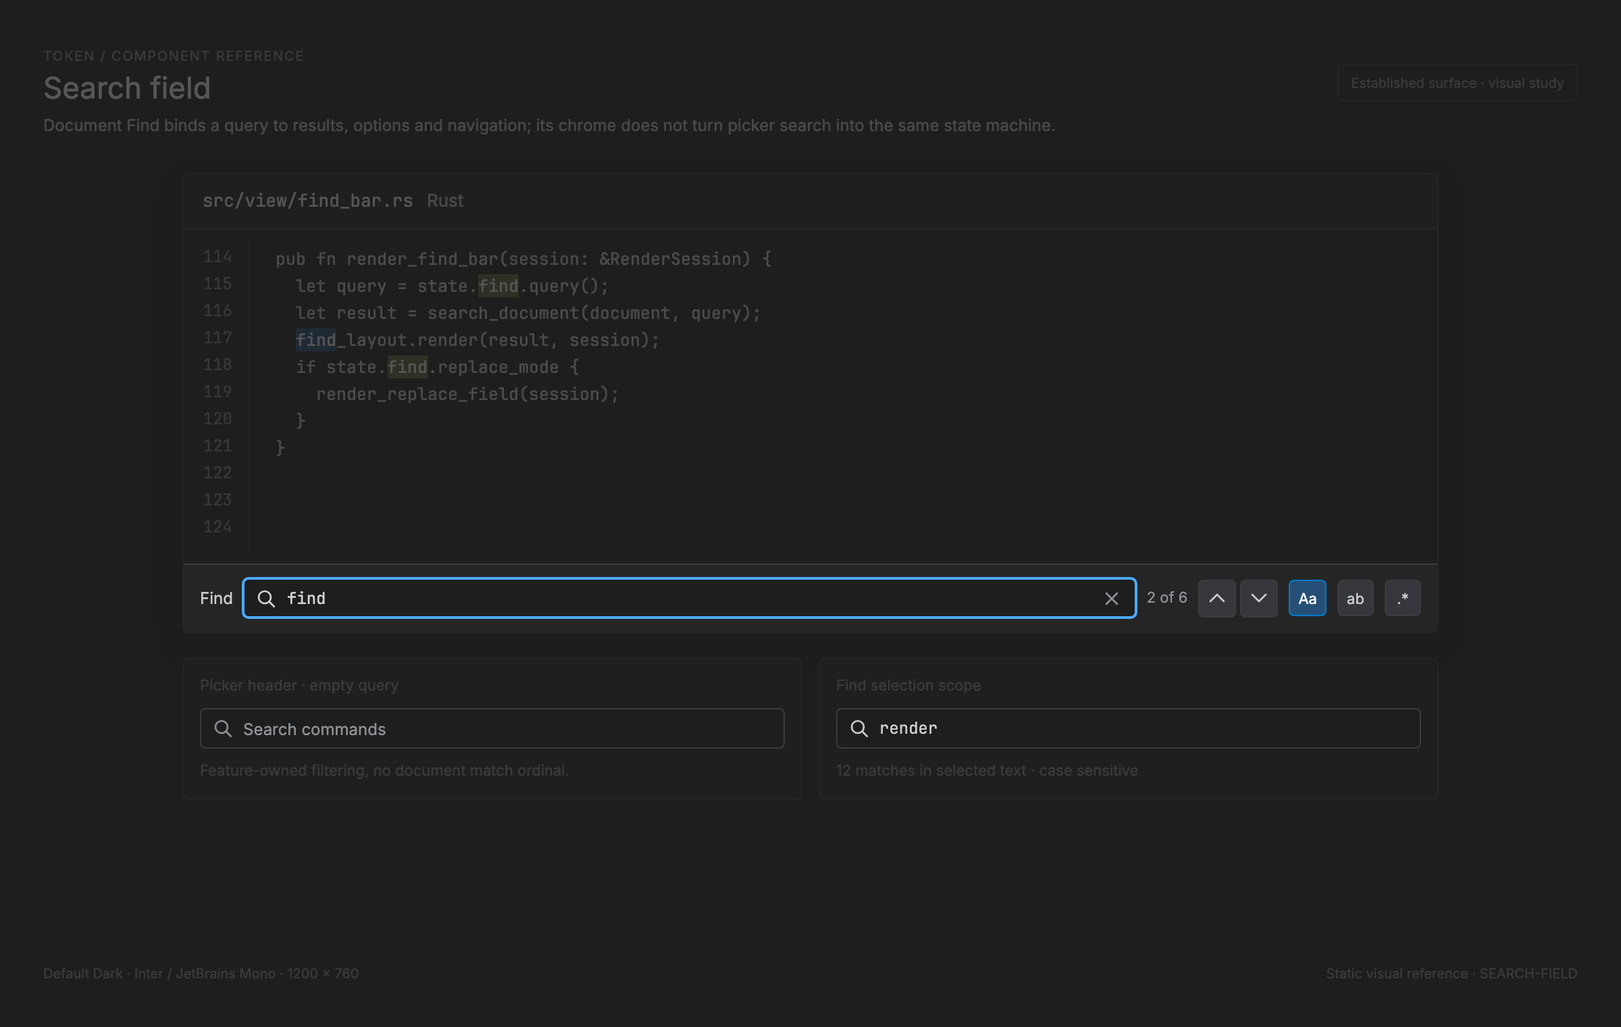
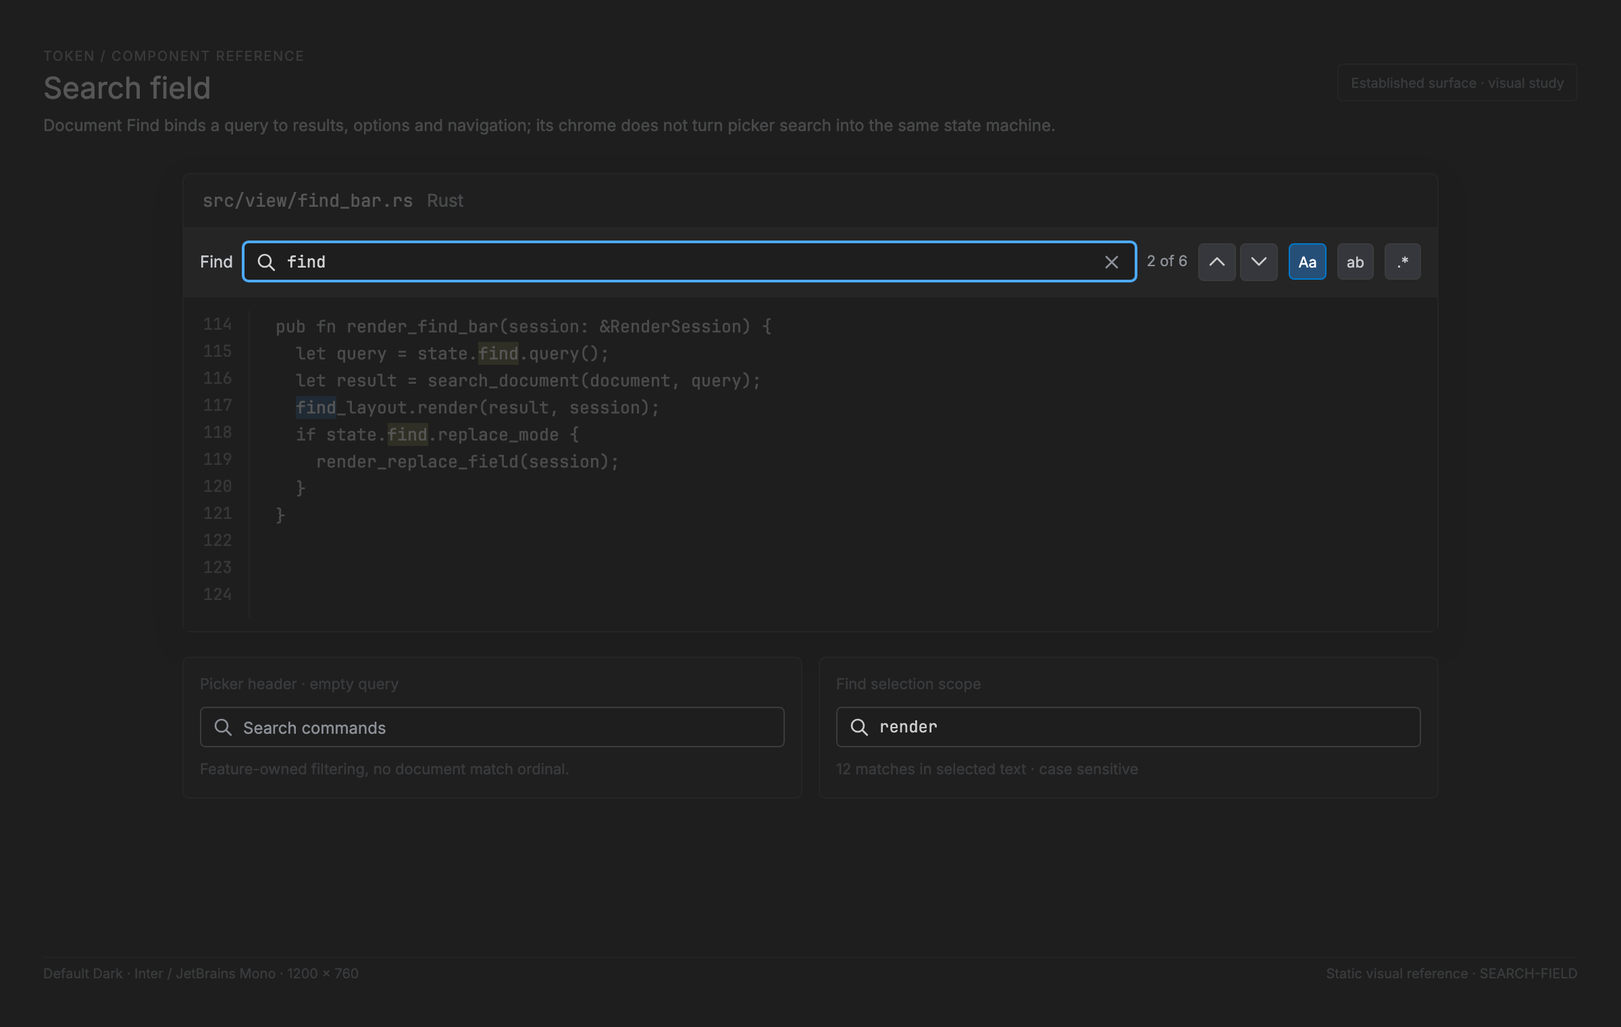
fix(docs): correct structural mismatches in polish-slice mockups
Investigated the cohesion review's open issues and a broader sweep for
mockups that misrepresent an already-implemented Token feature (not
missing states or cosmetic simplification, which are expected).

Real defects found and fixed:
- SEARCH-FIELD.html stacked the Find bar below the code sample, implying
  a bottom-docked bar. GroupLayout::from_rect (view/geometry.rs) places
  find_bar_rect directly below the tab strip, pushing content down; the
  mockup now matches, and SEARCH-FIELD.md states the placement explicitly
  so a future edit can't silently invert it again.
- PANEL.html mixed Outline (default-Right) with Problems/Terminal
  (default-Bottom) in one tab strip, and its own aria-labels contradicted
  each other ("Right dock" vs "Bottom panel tabs"). Rebuilt as a real
  bottom dock (Problems/Terminal/Usages, all Bottom-default per the doc
  and per src/panel/dock.rs::default_position).
- SCROLL-AREA.html's live thumb-size script clamped to 16px; both the
  doc's formula and src/view/scrollbar.rs::MIN_THUMB_PX are 20px.
- DOCKABLE-PANEL.html's docked-presentation card showed a bare title, not
  the tab-strip-leading/actions-trailing composition PANE-CHROME.md
  requires for a docked pane; added the missing tab strip.
- PANE-CHROME.md's worked-trace geometry (37/29 logical px) was never
  reconciled with its own mockup's rendered values (42/30 logical px);
  added a sentence explaining neither is binding yet.
[…]

diff --git a/docs/ui/mockups/SEARCH-FIELD.html b/docs/ui/mockups/SEARCH-FIELD.html
@@ -3,15 +3,15 @@
 <style>
  .search-context{max-width:930px;margin:0 auto}.editor-copy{height:248px;position:relative;background:var(--editor);padding:12px 28px 12px 68px;border-top:1px solid var(--line);font:12.5px/20px "JetBrains Mono",monospace;color:var(--code-fg)}
  .gutter{position:absolute;inset:10px auto 10px 0;width:49px;text-align:right;padding-right:12px;color:var(--gutter-fg);font:12px/20px "JetBrains Mono",monospace;border-right:1px solid var(--line)}.match{background:color-mix(in srgb,var(--chart-budget) 31%,transparent);color:var(--bright)}.active-match{background:var(--control-selected);color:var(--bright)}
- .findbar{padding:10px 12px 11px;background:var(--panel);border-top:1px solid var(--line);display:grid;grid-template-columns:auto minmax(250px,1fr) auto auto auto auto auto;gap:8px;align-items:center}.findbar.replace{grid-template-columns:auto minmax(250px,1fr) auto auto auto auto auto}.find-label{font-size:12px;color:var(--muted)}.search-input{height:29px;display:flex;align-items:center;gap:7px;padding:0 8px;border:1px solid var(--focus);box-shadow:0 0 0 1px var(--focus);border-radius:4px;background:var(--input-background,var(--editor));font:12px "JetBrains Mono",monospace;color:var(--code-fg)}.search-input .query{min-width:0;flex:1}.search-input .clear{border:0;background:transparent;color:var(--faint);padding:1px}.option{height:27px;min-width:27px;border:1px solid var(--line);border-radius:4px;background:var(--control-bg);color:var(--muted);font:11px "Inter",sans-serif}.option.on{background:var(--control-selected);border-color:var(--control-selected-border);color:var(--bright)}.find-result{white-space:nowrap;font-size:11px;color:var(--faint)}.find-actions{display:flex;gap:3px}.find-actions .btn{min-width:28px;padding:0 7px;height:28px}.states{max-width:930px;margin:18px auto 0;display:grid;grid-template-columns:1fr 1fr;gap:12px}.mini-find{padding:11px 12px}.mini-search{height:30px;display:flex;align-items:center;gap:7px;border:1px solid var(--line);background:var(--editor);border-radius:4px;padding:0 8px;font:12px "JetBrains Mono",monospace}.mini-search.empty{color:var(--faint);font-family:Inter,sans-serif}.scope{font-size:11px;color:var(--faint);margin-top:7px}
+ .findbar{padding:10px 12px 11px;background:var(--panel);display:grid;grid-template-columns:auto minmax(250px,1fr) auto auto auto auto auto;gap:8px;align-items:center}.findbar.replace{grid-template-columns:auto minmax(250px,1fr) auto auto auto auto auto}.find-label{font-size:12px;color:var(--muted)}.search-input{height:29px;display:flex;align-items:center;gap:7px;padding:0 8px;border:1px solid var(--focus);box-shadow:0 0 0 1px var(--focus);border-radius:4px;background:var(--input-background,var(--editor));font:12px "JetBrains Mono",monospace;color:var(--code-fg)}.search-input .query{min-width:0;flex:1}.search-input .clear{border:0;background:transparent;color:var(--faint);padding:1px}.option{height:27px;min-width:27px;border:1px solid var(--line);border-radius:4px;background:var(--control-bg);color:var(--muted);font:11px "Inter",sans-serif}.option.on{background:var(--control-selected);border-color:var(--control-selected-border);color:var(--bright)}.find-result{white-space:nowrap;font-size:11px;color:var(--faint)}.find-actions{display:flex;gap:3px}.find-actions .btn{min-width:28px;padding:0 7px;height:28px}.states{max-width:930px;margin:18px auto 0;display:grid;grid-template-columns:1fr 1fr;gap:12px}.mini-find{padding:11px 12px}.mini-search{height:30px;display:flex;align-items:center;gap:7px;border:1px solid var(--line);background:var(--editor);border-radius:4px;padding:0 8px;font:12px "JetBrains Mono",monospace}.mini-search.empty{color:var(--faint);font-family:Inter,sans-serif}.scope{font-size:11px;color:var(--faint);margin-top:7px}
 </style></head><body><script src="../../../prototypes/debug-performance-themes.js"></script><script src="shared.js"></script><script>
 Mockup.mount({id:'SEARCH-FIELD',title:'Search field',description:'Document Find binds a query to results, options and navigation; its chrome does not turn picker search into the same state machine.',status:'Established surface · visual study',content:`
  <section class="window search-context" aria-label="Editor with Find">
   <div class="surface-header"><span class="mono">src/view/find_bar.rs</span><span class="muted">Rust</span></div>
+  <div class="findbar" role="search" aria-label="Find in document"><span class="find-label">Find</span><div class="search-input" role="searchbox" aria-label="Find query" aria-readonly="true">${Mockup.icon('search')}<span class="query">find</span><button class="clear" aria-label="Clear query">${Mockup.icon('close')}</button></div><span class="find-result">2 of 6</span><div class="find-actions"><button class="btn icon-btn" aria-label="Previous match">${Mockup.icon('chevron-up')}</button><button class="btn icon-btn" aria-label="Next match">${Mockup.icon('chevron-down')}</button></div><button class="option on" aria-label="Match case enabled">Aa</button><button class="option" aria-label="Whole word disabled">ab</button><button class="option" aria-label="Use regular expression disabled">.*</button></div>
   <div class="editor-copy"><div class="gutter">114<br>115<br>116<br>117<br>118<br>119<br>120<br>121<br>122<br>123<br>124</div>
    <div><span class="muted">pub fn</span> render_find_bar(<span class="muted">session</span>: &amp;RenderSession) {</div><div>&nbsp;&nbsp;<span class="muted">let</span> query = state.<span class="match">find</span>.query();</div><div>&nbsp;&nbsp;<span class="muted">let</span> result = search_document(document, query);</div><div>&nbsp;&nbsp;<span class="active-match">find</span>_layout.render(result, session);</div><div>&nbsp;&nbsp;<span class="muted">if</span> state.<span class="match">find</span>.replace_mode {</div><div>&nbsp;&nbsp;&nbsp;&nbsp;render_replace_field(session);</div><div>&nbsp;&nbsp;}</div><div>}</div>
   </div>
-  <div class="findbar" role="search" aria-label="Find in document"><span class="find-label">Find</span><div class="search-input" role="searchbox" aria-label="Find query" aria-readonly="true">${Mockup.icon('search')}<span class="query">find</span><button class="clear" aria-label="Clear query">${Mockup.icon('close')}</button></div><span class="find-result">2 of 6</span><div class="find-actions"><button class="btn icon-btn" aria-label="Previous match">${Mockup.icon('chevron-up')}</button><button class="btn icon-btn" aria-label="Next match">${Mockup.icon('chevron-down')}</button></div><button class="option on" aria-label="Match case enabled">Aa</button><button class="option" aria-label="Whole word disabled">ab</button><button class="option" aria-label="Use regular expression disabled">.*</button></div>
  </section>
  <section class="states" aria-label="Search field variants"><div class="state-card mini-find"><div class="state-label">Picker header · empty query</div><div class="mini-search empty">${Mockup.icon('search')} Search commands</div><div class="scope">Feature-owned filtering, no document match ordinal.</div></div><div class="state-card mini-find"><div class="state-label">Find selection scope</div><div class="mini-search">${Mockup.icon('search')} render</div><div class="scope">12 matches in selected text · case sensitive</div></div></section>`});
 </script></body></html>

diff --git a/docs/ui/mockups/PANEL.html b/docs/ui/mockups/PANEL.html
@@ -7,14 +7,14 @@
   <script src="../../../prototypes/debug-performance-themes.js"></script><script src="shared.js"></script>
   <style>
     .panel-study { display:grid; grid-template-columns:minmax(0,1fr) 288px; gap:18px; height:100%; min-height:0; }
-    .host { display:grid; grid-template-columns:minmax(0,1fr) 4px 220px; min-height:0; border:1px solid var(--window-border,#3c3c3c); background:var(--editor,#1e1e1e); }
+    .host { display:grid; grid-template-rows:minmax(0,1fr) 4px 232px; min-height:0; border:1px solid var(--window-border,#3c3c3c); background:var(--editor,#1e1e1e); }
     .editor-host { display:grid; grid-template-rows:35px minmax(0,1fr) 25px; min-width:0; }
     .editor-tabs-mini { display:flex; align-items:end; gap:2px; padding:0 9px; background:var(--tabs-bg,#252526); border-bottom:1px solid var(--line,#3c3c3c); }
     .editor-tabs-mini span { height:34px; display:flex; align-items:center; padding:0 10px; color:var(--bright,#fff); font-size:11px; border:1px solid var(--line,#3c3c3c); border-bottom:0; background:var(--editor,#1e1e1e); }
     .editor-lines { padding:13px 0 0 45px; color:var(--code-fg,#d4d4d4); font:12px/21px "JetBrains Mono",monospace; } .editor-lines div { white-space:pre; } .editor-lines em { font-style:normal;color:var(--syntax-comment,#6a9955); }.editor-lines b{font-weight:400;color:var(--syntax-keyword,#c586c0)}
     .editor-status { display:flex; align-items:center; justify-content:space-between; padding:0 9px; background:var(--status-bg,#007acc); color:var(--status-fg,#fff); font-size:10px; }
     .splitter { z-index:2; background:var(--soft-line,#313438); }
-    .dock { display:grid; grid-template-rows:37px minmax(0,1fr); min-width:0; background:var(--panel,#252526); border-left:1px solid var(--line,#3c3c3c); }
+    .dock { display:grid; grid-template-rows:37px minmax(0,1fr); min-width:0; background:var(--panel,#252526); border-top:1px solid var(--line,#3c3c3c); }
     .dock-tabs { display:flex; align-items:end; overflow:hidden; padding:0 6px; gap:2px; border-bottom:1px solid var(--line,#3c3c3c); }
     .dock-tab { height:35px; display:flex; align-items:center; padding:0 8px; color:var(--tab-inactive-fg,#808080); font-size:10px; white-space:nowrap; }
     .dock-tab.active { color:var(--bright,#fff); border-bottom:2px solid var(--control-selected-border,#007acc); }
@@ -28,7 +28,7 @@
 <body>
   <script>
     (() => {
-      const content = `<div class="panel-study"><section class="host" aria-label="Right dock panel in editor shell"><div class="editor-host"><div class="editor-tabs-mini"><span>main.rs</span></div><div class="editor-lines"><div><b>fn</b> render_frame(frame: &amp;Frame) {</div><div>    <em>// document content owns this projection</em></div><div>    draw_editor(frame);</div><div>    draw_dock(frame);</div><div>}</div><br><div><b>pub</b> struct RenderPlan {</div><div>    layout: LayoutSnapshot,</div><div>}</div></div><div class="editor-status"><span>Rust</span><span>Ln 118, Col 9</span></div></div><i class="splitter" aria-hidden="true"></i><section class="dock"><nav class="dock-tabs" aria-label="Bottom panel tabs"><span class="dock-tab active">Problems</span><span class="dock-tab">Outline</span><span class="dock-tab">Terminal</span></nav><div class="panel-body"><div class="panel-heading">3 diagnostics</div><div class="panel-sub">main.rs · current workspace</div><div class="issue"><i class="severity"></i><span>unused variable: <code>frame</code><br><span class="dim">src/view/frame.rs:118</span></span></div><div class="issue warning"><i class="severity"></i><span>unreachable pattern<br><span class="dim">src/update/dock.rs:84</span></span></div><div class="issue"><i class="severity"></i><span>expected panel identity<br><span class="dim">src/layout/chrome.rs:209</span></span></div></div></section></section><aside class="dock-side"><div class="note-card"><strong>Dock is a host.</strong><br>A panel is the selected domain surface inside its left, right, or bottom container. The host owns placement, tabs, clipping, resize, and focus routing.</div><div class="surface-anatomy"><h2>Surface versus host chrome</h2><div class="surface-row"><span>Panel body</span><code>domain content</code></div><div class="surface-row"><span>Dock tab strip</span><code>host chrome</code></div><div class="surface-row"><span>Splitter</span><code>shared geometry</code></div><div class="surface-row"><span>Status bar</span><code>window chrome</code></div></div></aside></div>`;
+      const content = `<div class="panel-study"><section class="host" aria-label="Bottom dock panel in editor shell"><div class="editor-host"><div class="editor-tabs-mini"><span>main.rs</span></div><div class="editor-lines"><div><b>fn</b> render_frame(frame: &amp;Frame) {</div><div>    <em>// document content owns this projection</em></div><div>    draw_editor(frame);</div><div>    draw_dock(frame);</div><div>}</div><br><div><b>pub</b> struct RenderPlan {</div><div>    layout: LayoutSnapshot,</div><div>}</div></div><div class="editor-status"><span>Rust</span><span>Ln 118, Col 9</span></div></div><i class="splitter" aria-hidden="true"></i><section class="dock"><nav class="dock-tabs" aria-label="Bottom panel tabs"><span class="dock-tab active">Problems</span><span class="dock-tab">Terminal</span><span class="dock-tab">Usages</span></nav><div class="panel-body"><div class="panel-heading">3 diagnostics</div><div class="panel-sub">main.rs · current workspace</div><div class="issue"><i class="severity"></i><span>unused variable: <code>frame</code><br><span class="dim">src/view/frame.rs:118</span></span></div><div class="issue warning"><i class="severity"></i><span>unreachable pattern<br><span class="dim">src/update/dock.rs:84</span></span></div><div class="issue"><i class="severity"></i><span>expected panel identity<br><span class="dim">src/layout/chrome.rs:209</span></span></div></div></section></section><aside class="dock-side"><div class="note-card"><strong>Dock is a host.</strong><br>A panel is the selected domain surface inside its left, right, or bottom container. The host owns placement, tabs, clipping, resize, and focus routing.</div><div class="surface-anatomy"><h2>Surface versus host chrome</h2><div class="surface-row"><span>Panel body</span><code>domain content</code></div><div class="surface-row"><span>Dock tab strip</span><code>host chrome</code></div><div class="surface-row"><span>Splitter</span><code>shared geometry</code></div><div class="surface-row"><span>Status bar</span><code>window chrome</code></div></div></aside></div>`;
       Mockup.mount({ id:'PANEL', title:'Docked panels', description:'Existing persistent dock hosts shown with a concrete Problems panel and its editor context.', status:'Established surface · visual study', content });
     })();
   </script>

diff --git a/docs/ui/mockups/DOCKABLE-PANEL.html b/docs/ui/mockups/DOCKABLE-PANEL.html
@@ -25,7 +25,9 @@
     .dock-comparison { display:grid; grid-template-rows:auto minmax(0,1fr) auto; min-height:0; border:1px solid var(--line,#3c3c3c); background:var(--panel,#252526); }
     .comparison-title { padding:11px 12px 8px; border-bottom:1px solid var(--line,#3c3c3c); color:var(--muted,#c9cbcf); font-size:11px; }
     .docked-panel { margin:11px; border:1px solid var(--soft-line,#313438); background:var(--editor,#1e1e1e); }
-    .docked-head { height:34px; display:flex; align-items:center; padding:0 9px; border-bottom:1px solid var(--line,#3c3c3c); color:var(--bright,#fff); font-size:11px; }
+    .docked-tabs { display:flex; align-items:end; padding:0 8px; gap:2px; background:var(--tabs-bg,#252526); border-bottom:1px solid var(--line,#3c3c3c); }
+    .docked-tab { height:33px; display:flex; align-items:center; padding:0 9px; color:var(--tab-inactive-fg,#808080); font-size:10px; white-space:nowrap; } .docked-tab.active { color:var(--bright,#fff); border-bottom:2px solid var(--control-selected-border,#007acc); }
+    .docked-head { height:33px; display:flex; align-items:center; padding:0 9px; color:var(--bright,#fff); font-size:11px; margin-left:auto; }
     .state-line { display:flex; align-items:center; gap:7px; margin-top:7px; color:var(--faint,#8d9198); font-size:10px; } .state-line i { width:6px; height:6px; border:1px solid var(--focus,#4daaff); border-radius:50%; }
     .comparison-footer { padding:0 12px 12px; color:var(--faint,#8d9198); font-size:10px; line-height:14px; }
   </style>
@@ -49,7 +51,7 @@
         </section>
         <aside class="dock-comparison" aria-label="Docked comparison">
           <div class="comparison-title">Same panel · docked presentation</div>
-          <section class="docked-panel"><header class="docked-head">Performance <span style="margin-left:auto;color:var(--muted,#c9cbcf)">${i('float')}</span></header>${performanceContent}</section>
+          <section class="docked-panel"><nav class="docked-tabs" aria-label="Bottom panel tabs"><span class="docked-tab">Terminal</span><span class="docked-tab active">Performance</span><span class="docked-head">${i('float')}</span></nav>${performanceContent}</section>
           <div class="comparison-footer">Close remembers the current presentation. Reopen restores this float or its dock return slot.</div>
         </aside>
       </div>`;

diff --git a/docs/ui/mockups/SCROLL-AREA.html b/docs/ui/mockups/SCROLL-AREA.html
@@ -69,7 +69,7 @@
       const visible = viewport.clientHeight - parseFloat(viewportStyle.paddingTop) - parseFloat(viewportStyle.paddingBottom);
       const maxScroll = total - visible;
       const track = document.querySelector('.scroll-track').clientHeight;
-      const thumb = Math.max(16, track * visible / total);
+      const thumb = Math.max(20, track * visible / total);
       Object.assign(document.querySelector('.scroll-thumb').style, {
         height: `${thumb}px`, top: `${fixture.position / maxScroll * (track - thumb)}px`,
       });

diff --git a/docs/ui/ACTIVITY-RAIL.md b/docs/ui/ACTIVITY-RAIL.md
@@ -25,6 +25,27 @@ to add a right rail now.
 
 ## Proposed representation and ownership
 
+**Current excerpt** — [panel/dock.rs](../../src/panel/dock.rs#L9):
+
+```rust
+pub enum DockPosition {
+    Left,
+    Right,
+    Bottom,
+}
+
+pub enum PanelId {
+    FileExplorer,
+    Outline,
+    Terminal,
+    TaskRunner,
+    AiChat,
+    TodoList,
+    Problems,
+    Usages,
+}
+```
+
 The panel host is the source of placement and visible/focused state. In current
 Token that host is `DockLayout`; after [Dockable panel](DOCKABLE-PANEL.md), it
 must query both docked and floating placement. The rail owns only transient
@@ -89,6 +110,35 @@ and `n` visible entries, the no-overflow requirement is
 prefix/trailing policy deterministically, and expose omitted **named** entries
 through [Menu](MENU.md). Do not rely on an offscreen scrolling icon column that
 hides discoverability. Cells and hit targets use half-open snapped rectangles.
+
+**Algorithm sketch:**
+
+```text
+fn layout(rail: Rect, entries: &[PanelId], P, G, C) -> ActivityRailLayout {
+    H = rail.height
+    n = entries.len()
+    fits = 2*P + n*C + max(n - 1, 0)*G <= H
+    if fits {
+        visible = entries; overflow = None
+    } else {
+        // Largest k that still fits alongside one reserved overflow cell.
+        k = max(k such that 2*P + (k+1)*C + k*G <= H, 0)
+        visible = entries[..k]; overflow = entries[k..]  // named, not hidden
+    }
+    y = rail.y + P
+    rects = []
+    for panel_id in visible {
+        rects.push((panel_id, Rect::new(rail.x, y, rail.width, C)))
+        y += C + G
+    }
+    overflow_rect = fits ? None : Some(Rect::new(rail.x, y, rail.width, C))
+    ActivityRailLayout { rail, entries: rects, overflow: overflow_rect }
+}
+```
+
+Cell `i`'s rect therefore has `y = rail.y + P + i*(C+G)`; `hit(point)` is the
+first cell (or the overflow cell) whose half-open rect contains `point`, else
+`None`. This is the same fit test the two worked traces below evaluate.
 
 Pointer press captures `(pointer, PanelId)` only on enabled visible entries;
 matching release inside emits `RevealOrFocusPanel(PanelId)` to the panel-host

diff --git a/docs/ui/PANE-CHROME.md b/docs/ui/PANE-CHROME.md
@@ -126,7 +126,13 @@ these produce `action_height = 44 px` and
 use the 44 px minimum. The header centres these controls vertically and omits
 their hit targets if their full height cannot fit. The 74 px header in the
 trace below is an example of proposed 37 logical-pixel chrome, not the current
-dock-header default. The content rectangle is:
+dock-header default, and it is not the same figure as the mockup's rendered
+42 logical-px header / 30 logical-px footer
+([mockups/PANE-CHROME.html](mockups/PANE-CHROME.html)): the mockup is a hand-set
+illustrative size chosen for visual comfort, the trace demonstrates this
+section's derivation formula with example numbers, and neither is binding
+until Phase 1 of the [visual-polish plan](../feature/editor-visual-polish.md)
+picks trial metrics from real measurement. The content rectangle is:
 
 ```text
 header_rect  = [pane.x, pane.y, pane.width, H]

diff --git a/docs/feature/editor-visual-polish.md b/docs/feature/editor-visual-polish.md
@@ -315,7 +315,11 @@ trial bounds.
 ### Phase 4 — Adopt pane context and lower-pane chrome
 
 After the component docs and gallery specimens are accepted, implement the
-optional pane surfaces rather than inventing feature-local strips:
+optional pane surfaces rather than inventing feature-local strips. This phase
+ships `PaneFooter` only; [`PaneHeader`](../ui/PANE-CHROME.md) is not adopted
+until Phase 5 alongside the dockable panel, so "pane header/footer" in
+[PROTOTYPE-COMPONENTS.md](../ui/PROTOTYPE-COMPONENTS.md#work-tracks-and-dependency-order)
+is one proposed primitive family, not one atomic implementation slice.
 
 - a breadcrumb/context bar above a compatible text editor, with a thin bottom
   border and optional leading icon;

diff --git a/docs/ui/PROTOTYPE-COMPONENTS.md b/docs/ui/PROTOTYPE-COMPONENTS.md
@@ -123,6 +123,12 @@ spacing experiments can run alongside it. Breadcrumb navigation is a separate
 editor integration because it changes viewport origin and needs document/symbol
 identity. Activity rails do not block either track.
 
+"Pane header/footer" names one proposed primitive family, not one atomic slice:
+[editor-visual-polish.md](../feature/editor-visual-polish.md) ships `PaneFooter`
+in Phase 4 (with breadcrumbs) and `PaneHeader` in Phase 5 (with the dockable
+panel), since a footer has no docked-vs-floating title-composition rule to
+resolve first.
+
 ## Gallery and verification
 
 The [native gallery](../dev/ui-gallery.md) remains the place to compare named

diff --git a/docs/ui/SEARCH-FIELD.md b/docs/ui/SEARCH-FIELD.md
@@ -172,6 +172,13 @@ pending.
 
 ## Find-bar geometry and hit agreement
 
+The bar docks at the **top** of the editor content, directly below the tab
+strip, not at the pane's bottom edge: `GroupLayout::from_rect`
+([view/geometry.rs](../../src/view/geometry.rs#L410)) places `find_bar_rect.y`
+at `group_rect.y + tab_bar_height`, then starts `content_rect` at the find
+bar's bottom edge. Opening Find therefore pushes the document down by the
+bar's height; it never overlays or sits beneath the visible text.
+
 FindBarLayout is the source of truth for draw, hit, field options, and pointer
 column conversion. It derives from focused GroupLayout and ScaleMetrics:
 
